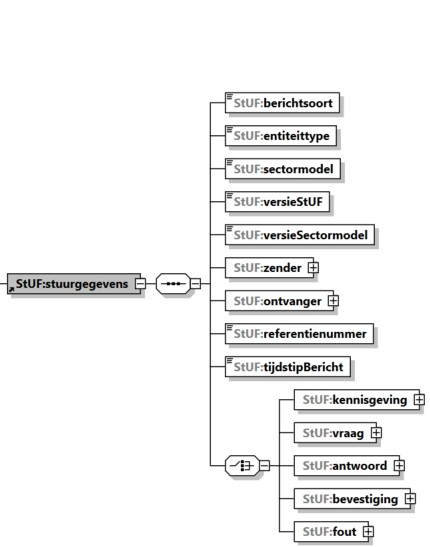
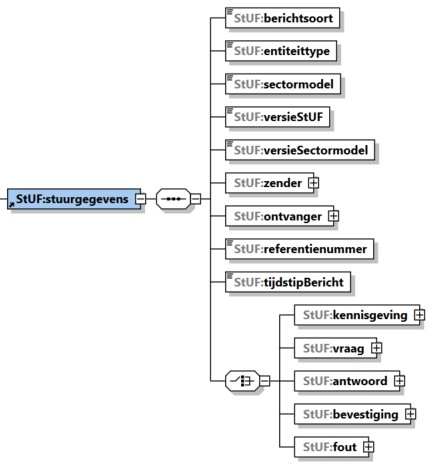
Aanpassingen en correcties
Eerste aanpassing van onderdeel 6.4.
Correcties op onderdeel 6.3 en aanscherping van de paragraaf 'Integratie versie 2.04 met versie 3.01'.
Kleine optimalisaties in 6.1 en 6.2.

Changed region(s): [[0.0, 0.0, 1.0, 1.0]]

diff --git a/content/leerlijnen/06-stuf-standaard/6-4-koppelvlakspecificaties.md b/content/leerlijnen/06-stuf-standaard/6-4-koppelvlakspecificaties.md
@@ -1,96 +1,38 @@
 ---
 title: "6.4 Koppelvlakspecificaties"
-date: 2026-05-13
+date: 2026-08-06
 weight: 604
 leerlijn: 6
 paragraaf: "6.4"
 parent: "StUF-standaard"
-leerdoel: "Leerdoel nog toe te voegen"
+leerdoel: "Het kunnen lezen en beheren van een StUF koppelvlak standaard met alle documenten die daarbij horen."
 ---
 
 ## 6.4 Koppelvlakspecificaties
 
-Kan StUF-koppelvlakspecificaties opstellen, lezen en beheren.
+Kan StUF-koppelvlakspecificaties lezen en beheren.
 
-### Wat zijn koppelvlakspecificaties?
+### Wat zijn StUF koppelvlakspecificaties?
 
-Een **koppelvlakspecificatie** is een document dat precies beschrijft hoe twee systemen met elkaar kunnen communiceren via StUF-berichten. Het definieert de berichten, scenario's, en business-regels die nodig zijn voor succesvolle gegevensuitwisseling.
+Een **StUF koppelvlakspecificatie** is een set van documenten die precies beschrijft hoe twee systemen met elkaar kunnen communiceren via StUF-berichten. Het definieert de berichten, scenario's en business-regels die nodig zijn voor succesvolle gegevensuitwisseling. een StUF koppelvlak specificeert hoe de gegevensuitwisseling tussen applicaties en voorzieningen eruit moet zien. Het legt concrete afspraken vast waarmee specifieke gegevens kunnen worden gecommuniceerd. Afspraken over specifieke berichten die tussen bepaalde referentiecomponenten uitgewisseld moeten en/of kunnen worden, afspraken over aanscherping van de berichten uit een StUF sectormodel en afspraken over de wijze waarop die berichten verstuurd moeten worden. In een StUF koppelvlakspecificatie is ook altijd aangegeven op welke referentiecomponenten de specificatie van toepassing is. Een StUF sectormodel is wat dat betreft minder restrictief en laat meer ruimte open voor eigen interpretatie.
 
-#### Componenten van een koppelvlakspecificatie:
+Een aantal bekende StUF koppelvlakken zijn:
+* Zaak- en Documentservices
+* Documentcreatieservices
+* en StUF Jeugdzorg
 
-- **Functionele specificatie**: Wat wordt uitgewisseld en waarom
-- **Technische specificatie**: Hoe wordt het uitgewisseld
-- **Berichtcatalogus**: Welke berichten zijn beschikbaar
-- **Scenario's**: Workflows en use cases
-- **Schema's**: XML-schema definities
-- **Implementatie-voorbeelden**: Concrete berichten
+#### Componenten van een StUF koppelvlakspecificatie
 
-### Structuur van een koppelvlakspecificatie
+De set van documenten van een StUF koppelvlakspecificatie bestaat minimaal uit een **functionele en technische specificatie** en een **berichtcatalogus**. In de eerste staat beschreven wat, waarom en hoe precies wordt uitgewisseld. Denk daarbij ook aan beveiliging en autorisatie. Over het algemeen is dit beschreven in een Word bestand dat wordt gepubliceerd m.b.v. een pdf. Het tweede bestaat uit een set van XML-Schema bestanden die soms gebaseerd zijn op een sectormodel en in dat geval een aanscherping op de berichten in het StUF sectormodel bevatten. Vaak ziet men dat in een koppelvlak ook vrije berichten worden gedefinieerd ten einde tegemoet te kunnen komen aan specifieke wensen m.b.t. de uit te wisselen gegevens.
 
-```mermaid
-graph TB
-    A[Koppelvlakspecificatie] --> B[Functionele Specificatie]
-    A --> C[Technische Specificatie]
-    A --> D[Berichtcatalogus]
-    A --> E[XML Schema's]
-    A --> F[Voorbeeldberichten]
-    
-    B --> B1[Use Cases]
-    B --> B2[Business Rules]
-    B --> B3[Autorisaties]
-    
-    C --> C1[Protocol-binding]
-    C --> C2[Error Handling]
-    C --> C3[Security]
-    
-    D --> D1[Request Messages]
-    D --> D2[Response Messages]
-    D --> D3[Notification Messages]
-    
-    E --> E1[Message Schemas]
-    E --> E2[Data Type Definitions]
-    E --> E3[Validation Rules]
-    
-    F --> F1[Successful Scenarios]
-    F --> F2[Error Scenarios]
-    F --> F3[Edge Cases]
-```
+Optioneel kan een StUF koppelvlakspecificatie ook nog **scenario beschrijvingen** bevatten. Workflows (zowel de happy als de unhappy) en use cases welke bijv. beschreven zijn m.b.v. een Excel spreadsheet. Tenslotte kunnen ook nog **implementatie-voorbeelden** van concrete berichten zijn toegevoegd.
 
-### StUF-BG Koppelvlakspecificatie
+Het opstellen van een koppelvlakspecificatie start altijd vanuit een specifieke behoefte van de business en vindt zijn basis in een informatiemodel, bijv. het RSGB, RGBZ, een ander, niet door VNG Realisatie beheerd, model of een specifiek voor het koppelvlak opgesteld model.
 
-#### Basisgegevens koppelvlak
+### Functionele en technische specificatie
 
-**StUF-BG specificatie componenten:**
+Een functionele en technische specificatie bevat over het algemeen de volgende onderdelen:
 
-```yaml
-stuf_bg_specificatie:
-  naam: "StUF-BG 3.10"
-  versie: "3.10.00"
-  publicatiedatum: "2011-11-01"
-  
-  doelgroep:
-    - "BRP/GBA leveranciers"
-    - "Gemeente ICT-afdelingen"  
-    - "Zaaksysteem leveranciers"
-    
-  scope:
-    - "Natuurlijke personen (NPS)"
-    - "Niet-natuurlijke personen (NNP)"
-    - "Vestigingen (VES)"
-    - "Adressen (AOA)"
-    - "Nummeraanduidingen (NAG)"
-    
-  berichten:
-    vraag_antwoord:
-      - "Lv01/La01 - Vraag/Antwoord"
-      - "Lv02/La02 - Detail vraag/antwoord"
-    kennisgevingen:
-      - "Lk01 - Objectkennisgeving"
-      - "Lk02 - Beëindiging abonnement"
-    synchronisatie:
-      - "Sv01/Sa01 - Synchronisatie vraag/antwoord"
-      - "Sh01 - Historievraag"
-```
 
 Het opstellen en beheren van StUF-koppelvlakspecificaties vereist grondige kennis van zowel de technische als functionele aspecten van gegevensuitwisseling. Een goede specificatie is de basis voor succesvolle systeemintegratie en interoperabiliteit binnen de overheid.
 

diff --git a/content/leerlijnen/06-stuf-standaard/6-3-versies-stuf-standaard.md b/content/leerlijnen/06-stuf-standaard/6-3-versies-stuf-standaard.md
@@ -1,11 +1,11 @@
 ---
 title: "6.3 Versies van de StUF-standaard"
-date: 2026-05-13
+date: 2026-08-06
 weight: 603
 leerlijn: 6
 paragraaf: "6.3"
 parent: "StUF-standaard"
-leerdoel: "Leerdoel nog toe te voegen"
+leerdoel: "Begrip hebben van de twee verschillende versies van de StUF standaard, de belangrijkste verschillen kunnen benoemen en daarmee om kunnen gaan."
 ---
 
 ## 6.3 Versies van de StUF-standaard
@@ -38,6 +38,18 @@ Aangezien deze standaard nog slechts door een klein aantal leveranciers wordt ge
 ### Integratie versie 2.04 met versie 3.01
 
 Voor zowel versie 2.04 als 3.01 is het sectormodel (zie verderop voor een uitleg) StUF-BG gepubliceerd (2.04 resp. 3.10). Voor de transformatie in de keten van StUF-BG 2.04 naar StUF-BG 3.10 en vice versa zijn mapping tabellen gepubliceerd.
+Hieronder zie je bijv. een deel van de mapping tussen de entiteit ADR in StUF-BG 2.04 naar de entiteit AOA in StUF-BG 3.10 envice versa.
+
+<img width="600" alt="StUF-BG 2.04 Stuurgegevens" src="/Leerlijnen-KCA/images/Mapping-ADR-op-AOA.jpg" />
+
+<img width="600" alt="StUF-BG 2.04 Stuurgegevens" src="/Leerlijnen-KCA/images/Mapping-AOA-op-ADR.jpg" />
+
+Soms betreft de mapping simpelweg het wijzigen van een elementnaam zoals in de eerste van `woonplaatsnaam` naar `wpl.woonplaatsNaamNen` maar soms ligt dat ook ingewikkelder.
+Zoals in het geval van het element `identificatie` in AOA. Daarvoor is geen tegenhanger aanwezig in StUF-BG 2.04 reden waarom we in dat geval mappen naar het extraElement `identificatieAOA`. Of in het geval van `gor.openbareRuimteNaam`, `gor.straatnaam` en het extraElement `straatnaam` in AOA. Alledrie die elementen moeten gemapt worden op `straatnaam`. Het zal duidelijk zijn dat je niet drie elementen daarop kunt mappen. Reden waarom er is beschreven wat de doen als meer dan een van die elementen aanwezig is: 
+
+> Als gor.straatnaam is gevuld, dan wordt deze gemapt, anders gor.openbareRuimteNaam, zonodig wordt de waarde afgekapt op 24 posities.<br/>Binnen de BAG berichtencatalogus is gor.straatnaam in sommige berichten niet beschikbaar. Gebruik dan het extraElement 'straatnaam'.
+
+Zoals je ziet moet er in het geval van `gor.openbareRuimteNaam` ook nog een transformatie uitgevoerd worden aangezien dat element uit 80 posities kan bestaan en `straatnaam` in ADR maar uit 24 posities.
 
 ### Resources
 - <a href="https://www.gemmaonline.nl/index.php/StUF" target="_blank">StUF Standaard Versiehistorie</a>

diff --git a/content/leerlijnen/06-stuf-standaard/6-2-folder-en-XML-Schema-structuur.md b/content/leerlijnen/06-stuf-standaard/6-2-folder-en-XML-Schema-structuur.md
@@ -1,6 +1,6 @@
 ---
 title: "6.2 StUF folder en XML-Schema structuur"
-date: 2026-05-13
+date: 2026-08-06
 weight: 602
 leerlijn: 6
 paragraaf: "6.2"

diff --git a/content/leerlijnen/06-stuf-standaard/6-1-opbouw-werking-stuf.md b/content/leerlijnen/06-stuf-standaard/6-1-opbouw-werking-stuf.md
@@ -1,6 +1,6 @@
 ---
 title: "6.1 Opbouw en werking van StUF"
-date: 2026-05-13
+date: 2026-08-06
 weight: 601
 leerlijn: 6
 paragraaf: "6.1"
